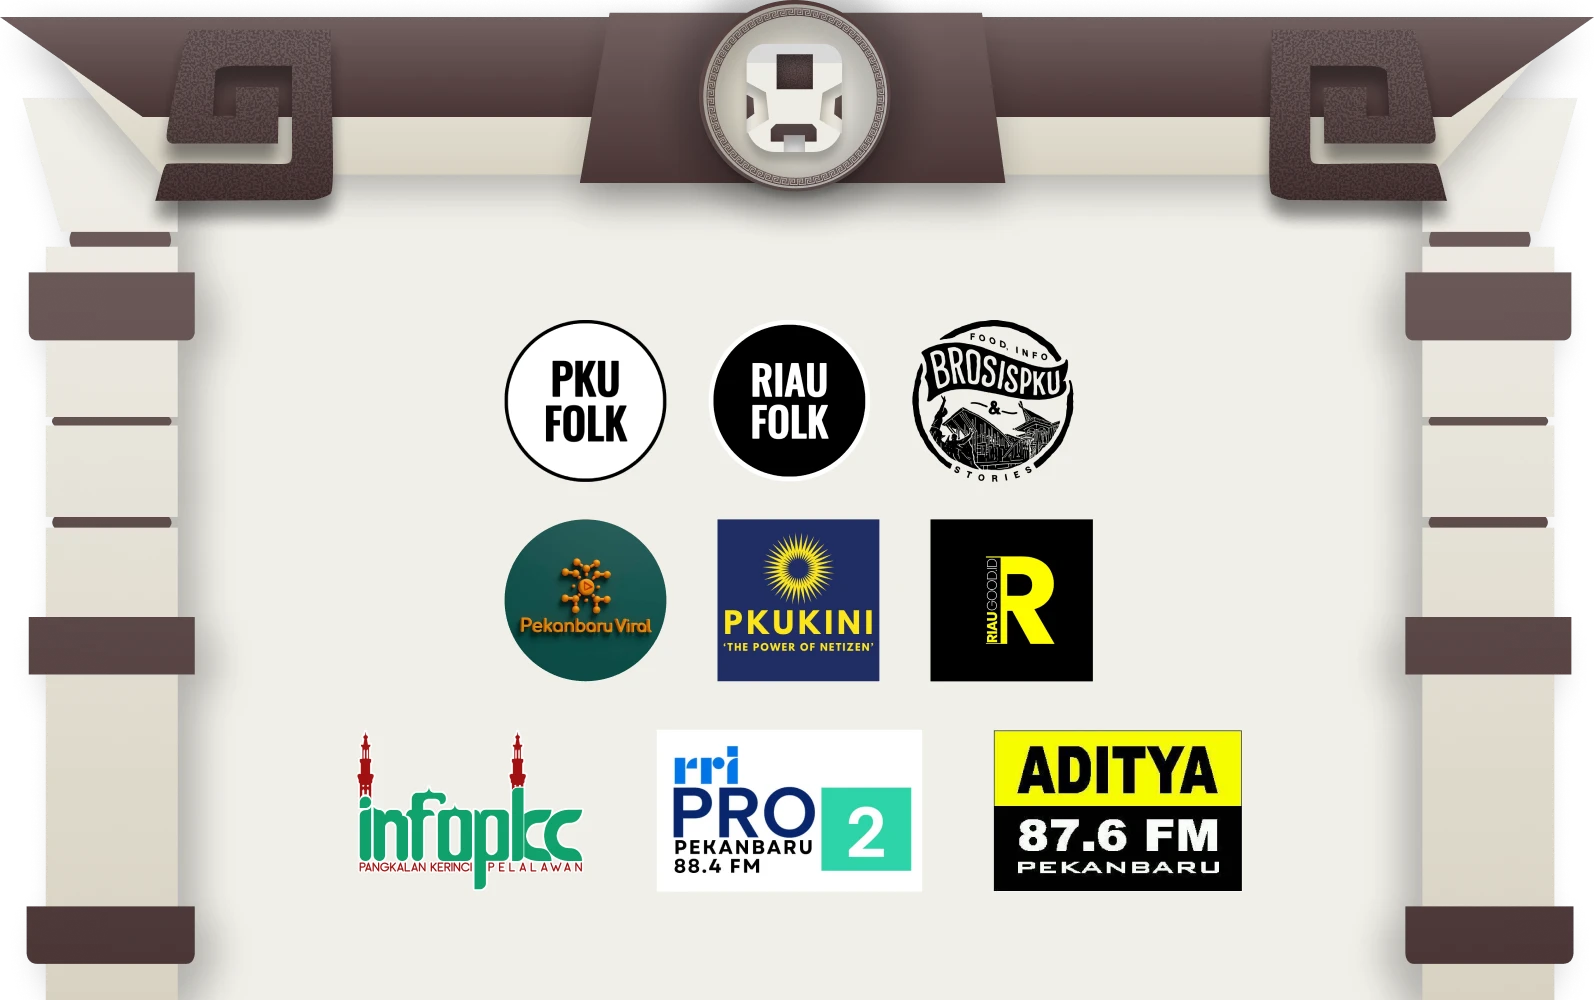
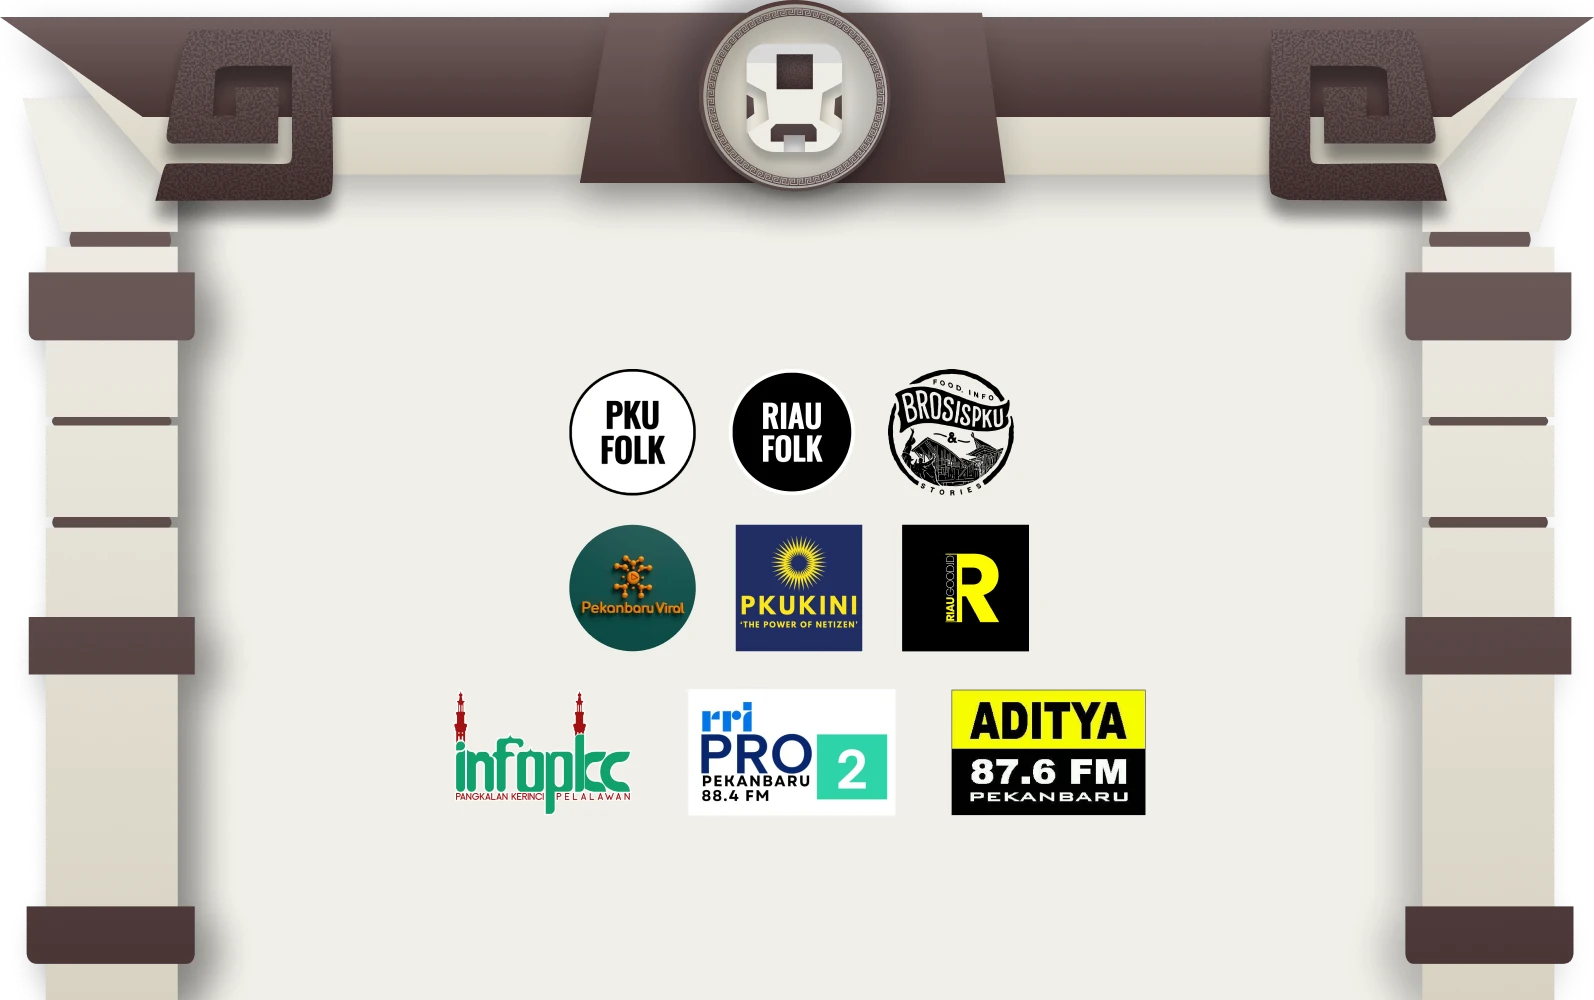
fix: timeline, sponsor, medpart, and testimoni

Changed region(s): [[0.2152, 0.31, 0.7992, 0.899], [0.0922, 0.217, 0.1537, 1.0]]

diff --git a/components/timeline/TimelineCard.jsx b/components/timeline/TimelineCard.jsx
@@ -7,7 +7,7 @@ import { B3 } from "../elements/typography";
 
 const TimelineCard = ({ title, date, location, description, onOpen }) => {
   return (
-    <div className="bg-white p-1 rounded-xl w-full max-w-[636px] h-[167px] z-10 overflow-visible">
+    <div className="bg-white p-1 rounded-xl w-full max-w-[636px] min-h-[167px] md:h-[167px] z-10 overflow-visible">
       <div
         className="
           relative h-full w-full bg-white rounded-xl 
@@ -16,13 +16,13 @@ const TimelineCard = ({ title, date, location, description, onOpen }) => {
           overflow-hidden
         "
       >
-        <div className="absolute left-0 top-0 bottom-0 w-[40%] bg-[url('/timeline/logo-gamaftr.png')] bg-no-repeat bg-left bg-cover rounded-l-xl pointer-events-none" aria-hidden="true" />
+        <div className="hidden md:block absolute left-0 top-0 bottom-0 w-[40%] bg-[url('/timeline/logo-gamaftr.png')] bg-no-repeat bg-left bg-cover rounded-l-xl pointer-events-none" aria-hidden="true" />
         <div className="relative z-10 p-4 h-full">
-          <div className="flex h-full">
-            <div className="w-6/8 pr-4 flex flex-col">
+          <div className="flex flex-col md:flex-row h-full gap-3 md:gap-0">
+            <div className="w-full md:w-6/8 md:pr-4 flex flex-col">
               <h3
                 className="
-                  text-glacier-900 font-[Mochesa] text-[28px] leading-[120%]
+                  text-glacier-900 font-[Mochesa] text-[24px] md:text-[28px] leading-[120%]
                   [-webkit-text-stroke-width:0.5px]
                   [-webkit-text-stroke-color:#000]
                 "
@@ -30,22 +30,22 @@ const TimelineCard = ({ title, date, location, description, onOpen }) => {
                 {title}
               </h3>
 
-              <p className="text-black text-justify font-[Plus_Jakarta_Sans] text-[14px] leading-[20px] font-medium line-clamp-3 mt-2 flex-1">
+              <p className="text-black text-justify font-[Plus_Jakarta_Sans] text-[13px] md:text-[14px] leading-[18px] md:leading-[20px] font-medium md:line-clamp-3 mt-2 flex-1">
                 {description}
               </p>
             </div>
 
-            <div className="w-2/8 pl-4 flex flex-col justify-between items-end">
-              <div className="text-right">
-                <p className="text-amazon-300 font-[Plus_Jakarta_Sans] text-[14px] leading-[20px] font-semibold">
+            <div className="w-full md:w-2/8 md:pl-4 flex flex-row md:flex-col justify-between md:justify-between items-center md:items-end gap-2">
+              <div className="text-left md:text-right">
+                <p className="text-amazon-300 font-[Plus_Jakarta_Sans] text-[13px] md:text-[14px] leading-[18px] md:leading-[20px] font-semibold">
                   {date}
                 </p>
-                <p className="text-amazon-300 font-[Plus_Jakarta_Sans] text-[14px] leading-[20px] font-semibold">
+                <p className="text-amazon-300 font-[Plus_Jakarta_Sans] text-[13px] md:text-[14px] leading-[18px] md:leading-[20px] font-semibold">
                   {location}
                 </p>
               </div>
 
-              <Button className="w-fit text-md px-3 py-1" onClick={() => onOpen()}>
+              <Button className="w-fit text-sm md:text-md px-3 py-1 shrink-0" onClick={() => onOpen()}>
                 <B3>Selengkapnya</B3> <RightArrow />
               </Button>
             </div>

diff --git a/components/Testimonials.jsx b/components/Testimonials.jsx
@@ -1,40 +1,42 @@
-import React from 'react';
-import Image from 'next/image';
-import TestimonialCard from './TestimonialCard';
+import React from "react";
+import Image from "next/image";
+import TestimonialCard from "./TestimonialCard";
 
 // Dummy testimonial data
 const testimonialData = [
   {
     id: 1,
     category: "Try Out",
-    name: "Budi Santoso",
-    status: "Siswa SMA Negeri 1",
-    testimonial: "GAMAFTR memberikan pengalaman yang luar biasa! Try out yang diberikan sangat membantu saya mempersiapkan diri untuk UTBK.",
-    photo: "/LOGO.png"
+    name: "Haniifah Nadya",
+    status: "Peserta Try Out GAMAFTR 2025",
+    testimonial:
+      "tryout gamaftr itu ngebantu aku untuk belajar dalam utbk. dari soal-soal tryoutnya aku bisa dapat gambaran untuk utbk nanti dan juga ngukur kemampuan sendiri dan tau bagian mana yang masih perlu aku pelajarin lagi panitia gamaftrnya humble dan juga helpful jadi ga segan untuk tanya tanya seputar to dan juga informasi tentang UGM. rate keseluruhan acara 100/10!!",
+    photo: "/haniifah_1.webp",
   },
   {
     id: 2,
     category: "Bedah Kampus",
     name: "Siti Nurhaliza",
     status: "Siswa SMA Negeri 5",
-    testimonial: "Seminar motivasi dari kakak-kakak UGM sangat menginspirasi. Saya jadi lebih semangat untuk belajar dan mengejar impian kuliah di UGM.",
-    photo: "/LOGO.png"
-  }
+    testimonial:
+      "Seminar motivasi dari kakak-kakak UGM sangat menginspirasi. Saya jadi lebih semangat untuk belajar dan mengejar impian kuliah di UGM.",
+    photo: "/LOGO.png",
+  },
 ];
 
 const Testimonials = () => {
   return (
-    <section 
+    <section
       id="testimonials"
       className="relative min-h-screen w-full overflow-hidden"
       style={{
-        background: 'linear-gradient(to top, #BFDEEB 0%, #ffffff 100%)'
+        background: "linear-gradient(to top, #BFDEEB 0%, #ffffff 100%)",
       }}
     >
       {/* Header Border */}
-      <div 
+      <div
         className="w-full border-t-[3px] border-dashed"
-        style={{ borderColor: '#2B4B55' }}
+        style={{ borderColor: "#2B4B55" }}
       />
 
       {/* Decorative Clouds */}
@@ -60,18 +62,18 @@ const Testimonials = () => {
       {/* Content Container */}
       <div className="relative z-20 container mx-auto px-4 py-12 md:py-16 lg:py-20">
         {/* Title */}
-        <h2 
+        <h2
           className="text-3xl sm:text-4xl md:text-5xl lg:text-6xl font-bold text-center mb-12 md:mb-16"
           style={{
-            fontFamily: 'Mochesa, cursive',
-            color: '#1E2625',
+            fontFamily: "Mochesa, cursive",
+            color: "#1E2625",
             textShadow: `
               -2px -2px 0 #fff,
               2px -2px 0 #fff,
               -2px 2px 0 #fff,
               2px 2px 0 #fff,
               0px 4px 6px rgba(0, 0, 0, 0.3)
-            `
+            `,
           }}
         >
           Apa Kata Mereka

diff --git a/components/timeline/timelineData.js b/components/timeline/timelineData.js
@@ -13,9 +13,9 @@ export const timelineData = [
     id: 2,
     title: "Roadshow",
     date: "5–15 Januari 2026",
-    location: "45+ SMA/SMK/MA",
+    location: "80+ SMA/SMK/MA",
     description:
-      "Rangkaian sosialisasi ke SMA/SMK/MA/Sederajat di Provinsi Riau yang akan dilaksanakan secara luring maupun daring yang akan diikuti oleh siswa/i kelas 12.",
+      "Rangkaian sosialisasi kepada siswa kelas 12 SMA/SMK/MA/Sederajat di Provinsi Riau yang akan dilaksanakan secara luring maupun daring.",
     image: "/timeline/roadshowgamaftr.jpeg",
     noButton: true,
   },
@@ -27,7 +27,7 @@ export const timelineData = [
     description:
       "GAMAFTR 2025 menyediakan wadah bagi siswa/i di Provinsi Riau yang ingin mempersiapkan diri masuk Perguruan Tinggi serta menguji kemampuannya.",
     image: "/timeline/tryout.jpeg",
-    formUrl: "https://docs.google.com/forms/d/e/1FAIpQLSeWc36q-WbqgrOVw56Ymhsax7jY9izhIsPOx8QQY08rCYyZfg/viewform", // Google Form TOTIK
+    formUrl: "https://docs.google.com/forms/d/e/1FAIpQLSc4p09pS_A-xRf8mnE7V2kmpqfPHR7LTG7GDA7Ne-J9-Ir4pQ/viewform", // Google Form TOTIK
     maps: [
       { label: "Try Out di Kota Pekanbaru", url: "https://www.google.com/maps/place/TryOut+KotaA" },
       { label: "Try Out di Kota Duri", url: "https://www.google.com/maps/place/TryOut+KotaB" },
@@ -36,12 +36,12 @@ export const timelineData = [
   {
     id: 4,
     title: "Bedah Kampus",
-    date: "24 Januari 2026",
+    date: "25 Januari 2026",
     location: "TBA",
     description:
       "Penutupan rangkaian kegiatan GAMAFTR 2025 yang akan mendatangkan Guest Star serta penampilan dari mahasiswa/i UGM sebagai puncak acara.",
     image: "/timeline/bedkam.jpeg",
-    formUrl: "https://docs.google.com/forms/d/e/1FAIpQLSeWc36q-WbqgrOVw56Ymhsax7jY9izhIsPOx8QQY08rCYyZfg/viewform", // Google Form TOTIK
+    formUrl: "https://docs.google.com/forms/d/e/1FAIpQLSc4p09pS_A-xRf8mnE7V2kmpqfPHR7LTG7GDA7Ne-J9-Ir4pQ/viewform", // Google Form TOTIK
     mapsUrl: "https://maps.app.goo.gl/f5vrC3gBYxrNYPkb6", // Link to Google Maps Bedkam
   },
 ];

diff --git a/components/timeline/TimelineSection.jsx b/components/timeline/TimelineSection.jsx
@@ -86,7 +86,7 @@ const TimelineSection = () => {
               >
                 {/* Image first on mobile, card second. On desktop we swap via md:order to keep alternating sides. */}
                 <div
-                  className={`relative w-full max-w-[636px] h-[167px] rounded-2xl 
+                  className={`relative w-full max-w-[636px] min-h-[167px] md:h-[167px] rounded-2xl 
                   overflow-hidden z-0 pointer-events-none 
                   ${
                     isEven
@@ -111,7 +111,7 @@ const TimelineSection = () => {
                 <div
                   className={`${
                     isEven ? "md:order-1 md:-mr-12" : "md:order-2 md:-ml-12"
-                  } relative w-full max-w-[636px] min-h-[167px] z-10 -mt-6 md:mt-0`}
+                  } relative w-full max-w-[636px] z-10 -mt-6 md:mt-0`}
                 >
                   {/* negative top margin on mobile so the card overlaps image to create a blended look */}
                   <TimelineCard {...item} onOpen={() => openPopup(item)} />

diff --git a/Custom/Sponsorbar.js b/Custom/Sponsorbar.js
@@ -32,7 +32,7 @@ export default function Sponsorbar() {
           Terima Kasih Kepada
         </H3>
 
-        {/* <H6 
+        <H6 
           style={{
             color: "#294852",
             textShadow: `
@@ -51,7 +51,7 @@ export default function Sponsorbar() {
         <div className="w-full max-w-6xl mb-12 md:mb-16">
           <div className="relative w-full">
             <Image
-              src="/coming soon.png"
+              src="/sponsor.webp"
               width={1200}
               height={400}
               alt="Sponsor"
@@ -59,7 +59,7 @@ export default function Sponsorbar() {
               className="w-full h-auto rounded-2xl"
             />
           </div>
-        </div> */}
+        </div>
 
         <H6 
           style={{
